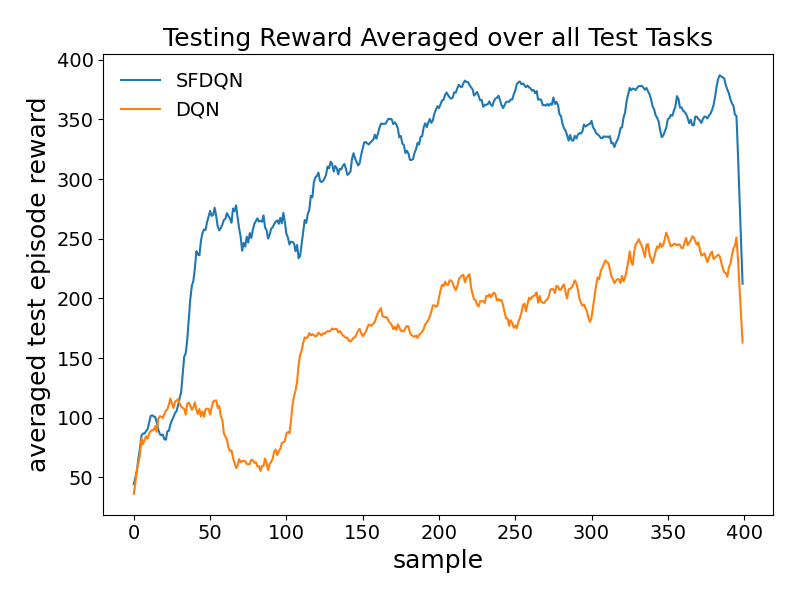
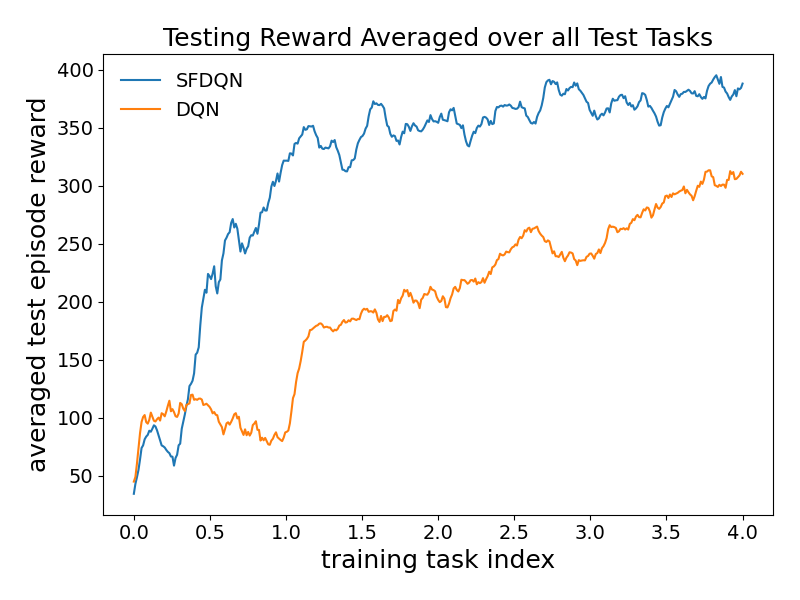
reran sfdqn experiment with corrected plot settings

diff --git a/source/main_sfdqn.py b/source/main_sfdqn.py
@@ -95,8 +95,9 @@ def train():
     def smooth(y, box_pts):
         return np.convolve(y, np.ones(box_pts) / box_pts, mode='same')
 
-    sfdqn_perf = smooth(sfdqn_perf, 10)
-    dqn_perf = smooth(dqn_perf, 10)
+    sfdqn_perf = smooth(sfdqn_perf, 10)[:-5]
+    dqn_perf = smooth(dqn_perf, 10)[:-5]
+    x = np.linspace(0, 4, sfdqn_perf.size)
     
     # reporting progress
     ticksize = 14
@@ -110,9 +111,9 @@ def train():
 
     plt.figure(figsize=(8, 6))
     ax = plt.gca()
-    ax.plot(sfdqn_perf, label='SFDQN')
-    ax.plot(dqn_perf, label='DQN')
-    plt.xlabel('sample')
+    ax.plot(x, sfdqn_perf, label='SFDQN')
+    ax.plot(x, dqn_perf, label='DQN')
+    plt.xlabel('training task index')
     plt.ylabel('averaged test episode reward')
     plt.title('Testing Reward Averaged over all Test Tasks')
     plt.tight_layout()
